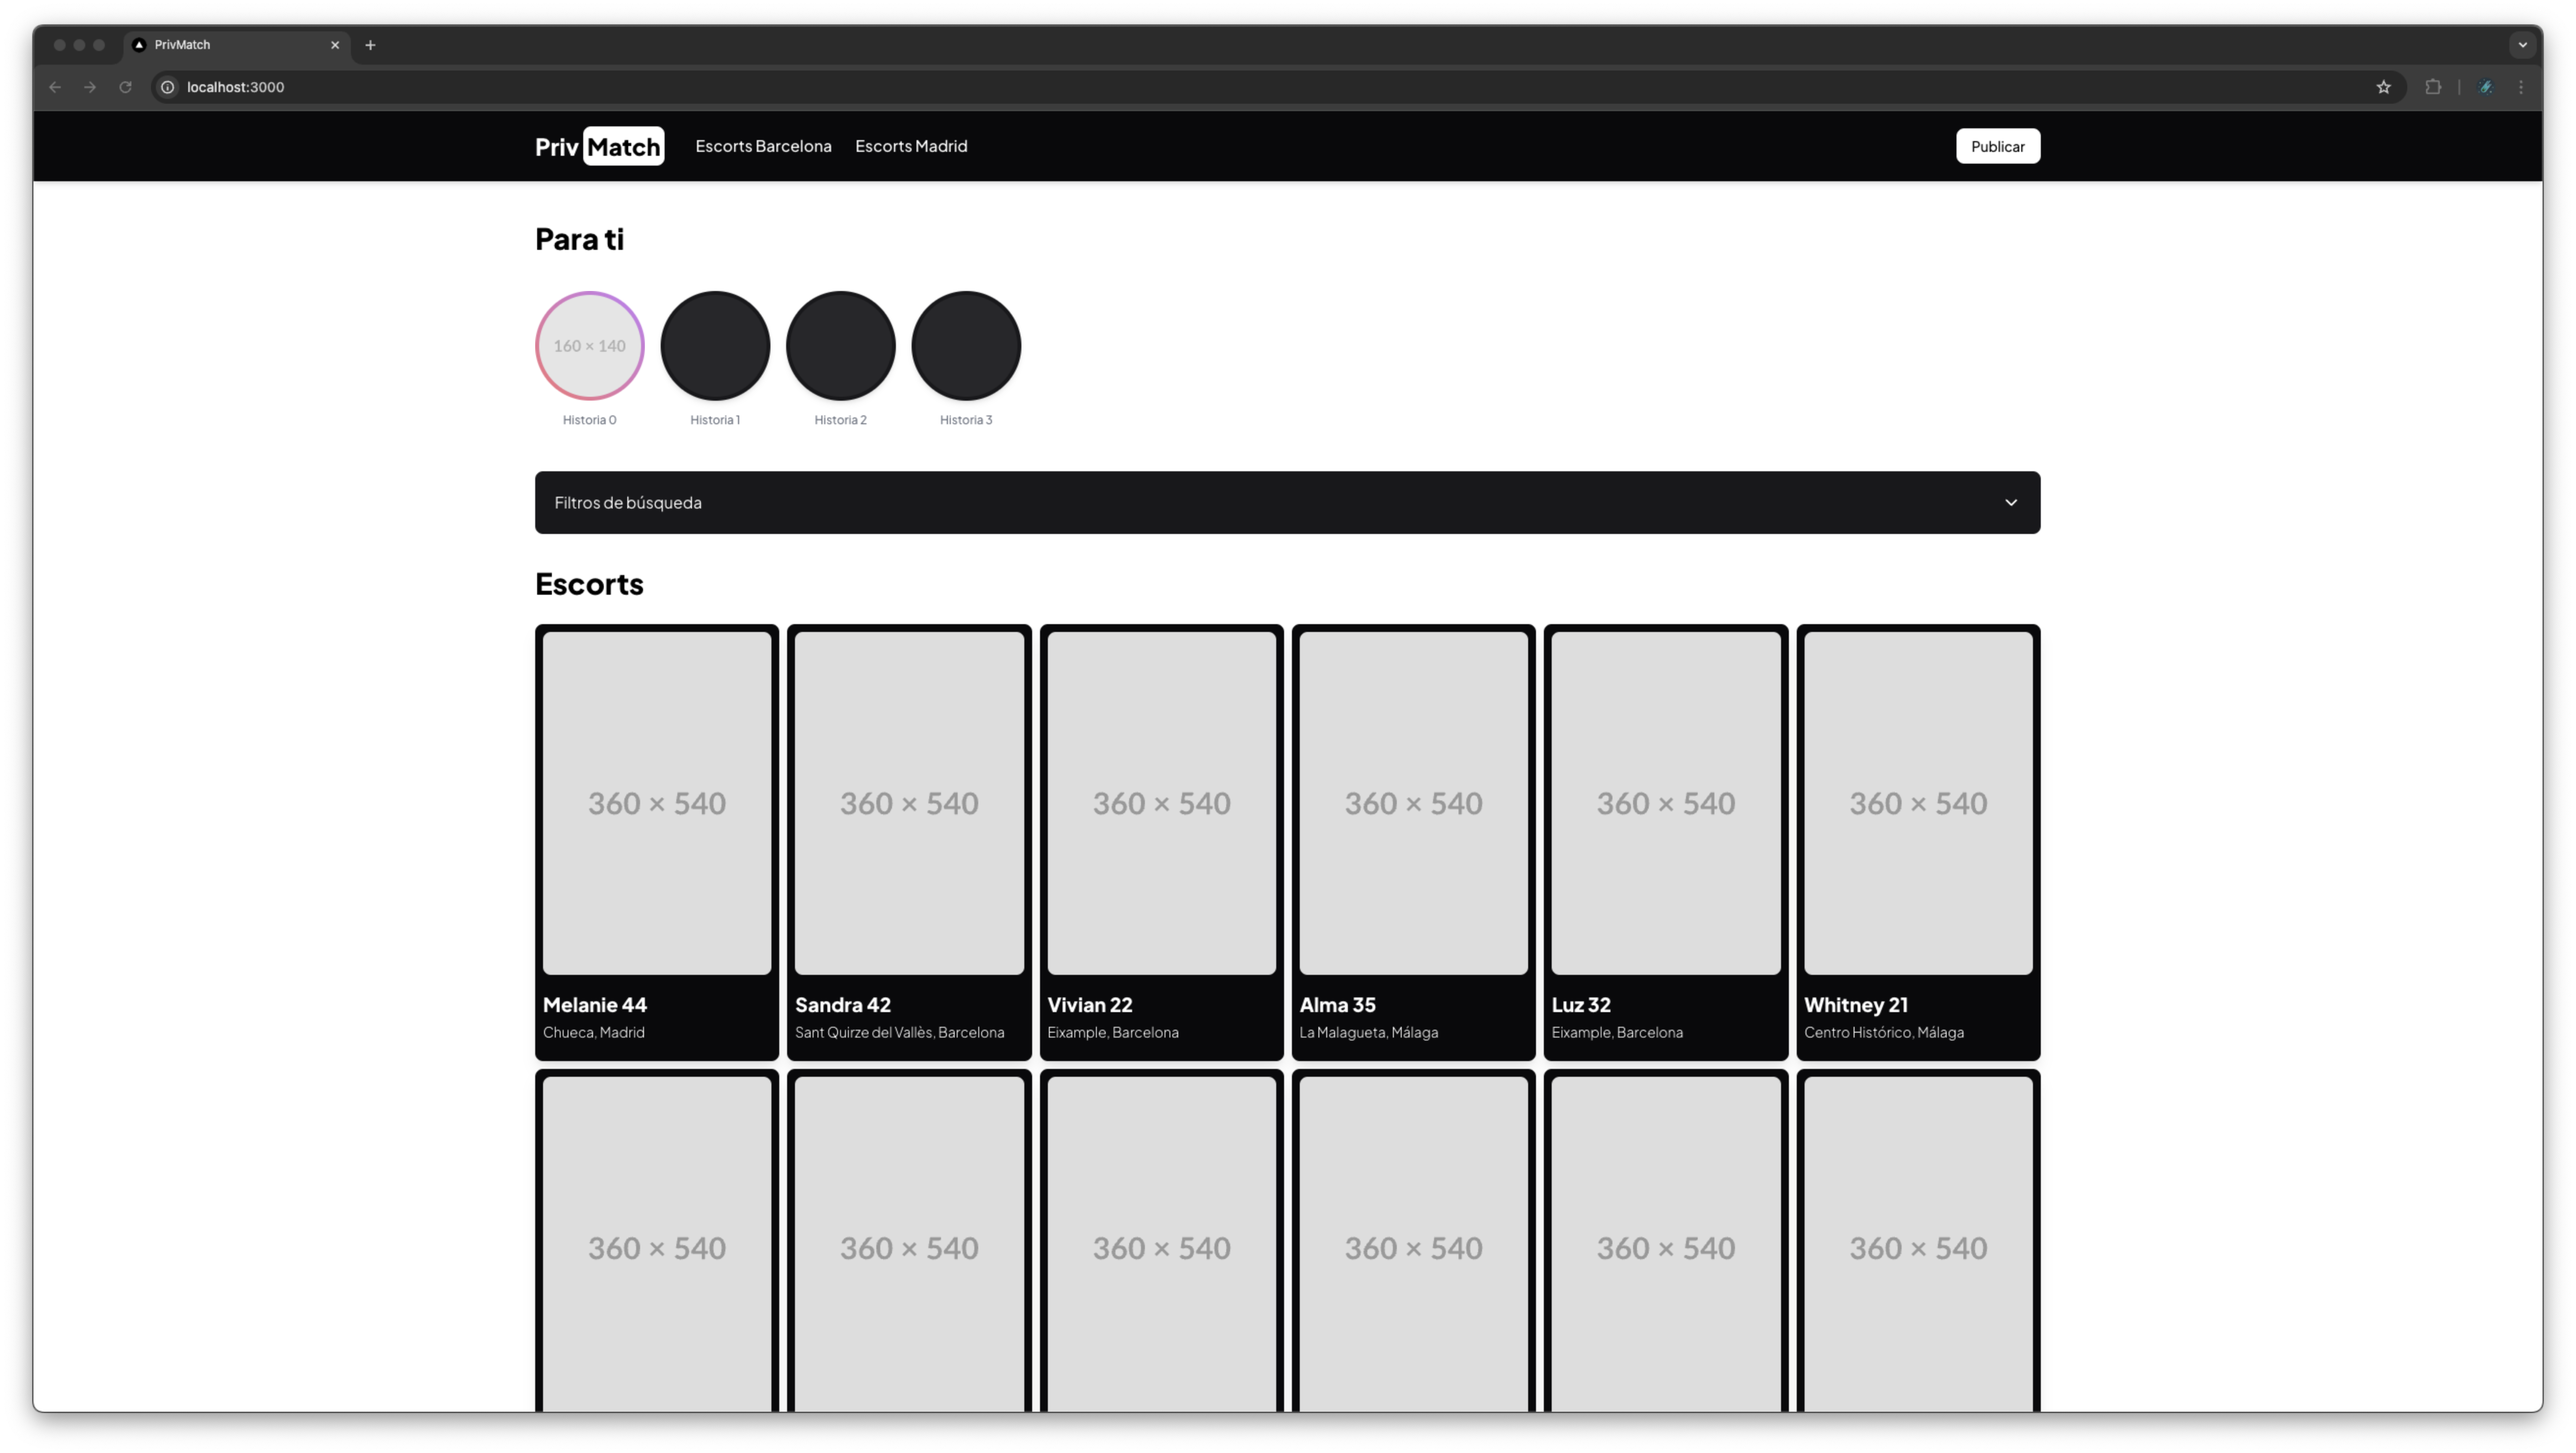
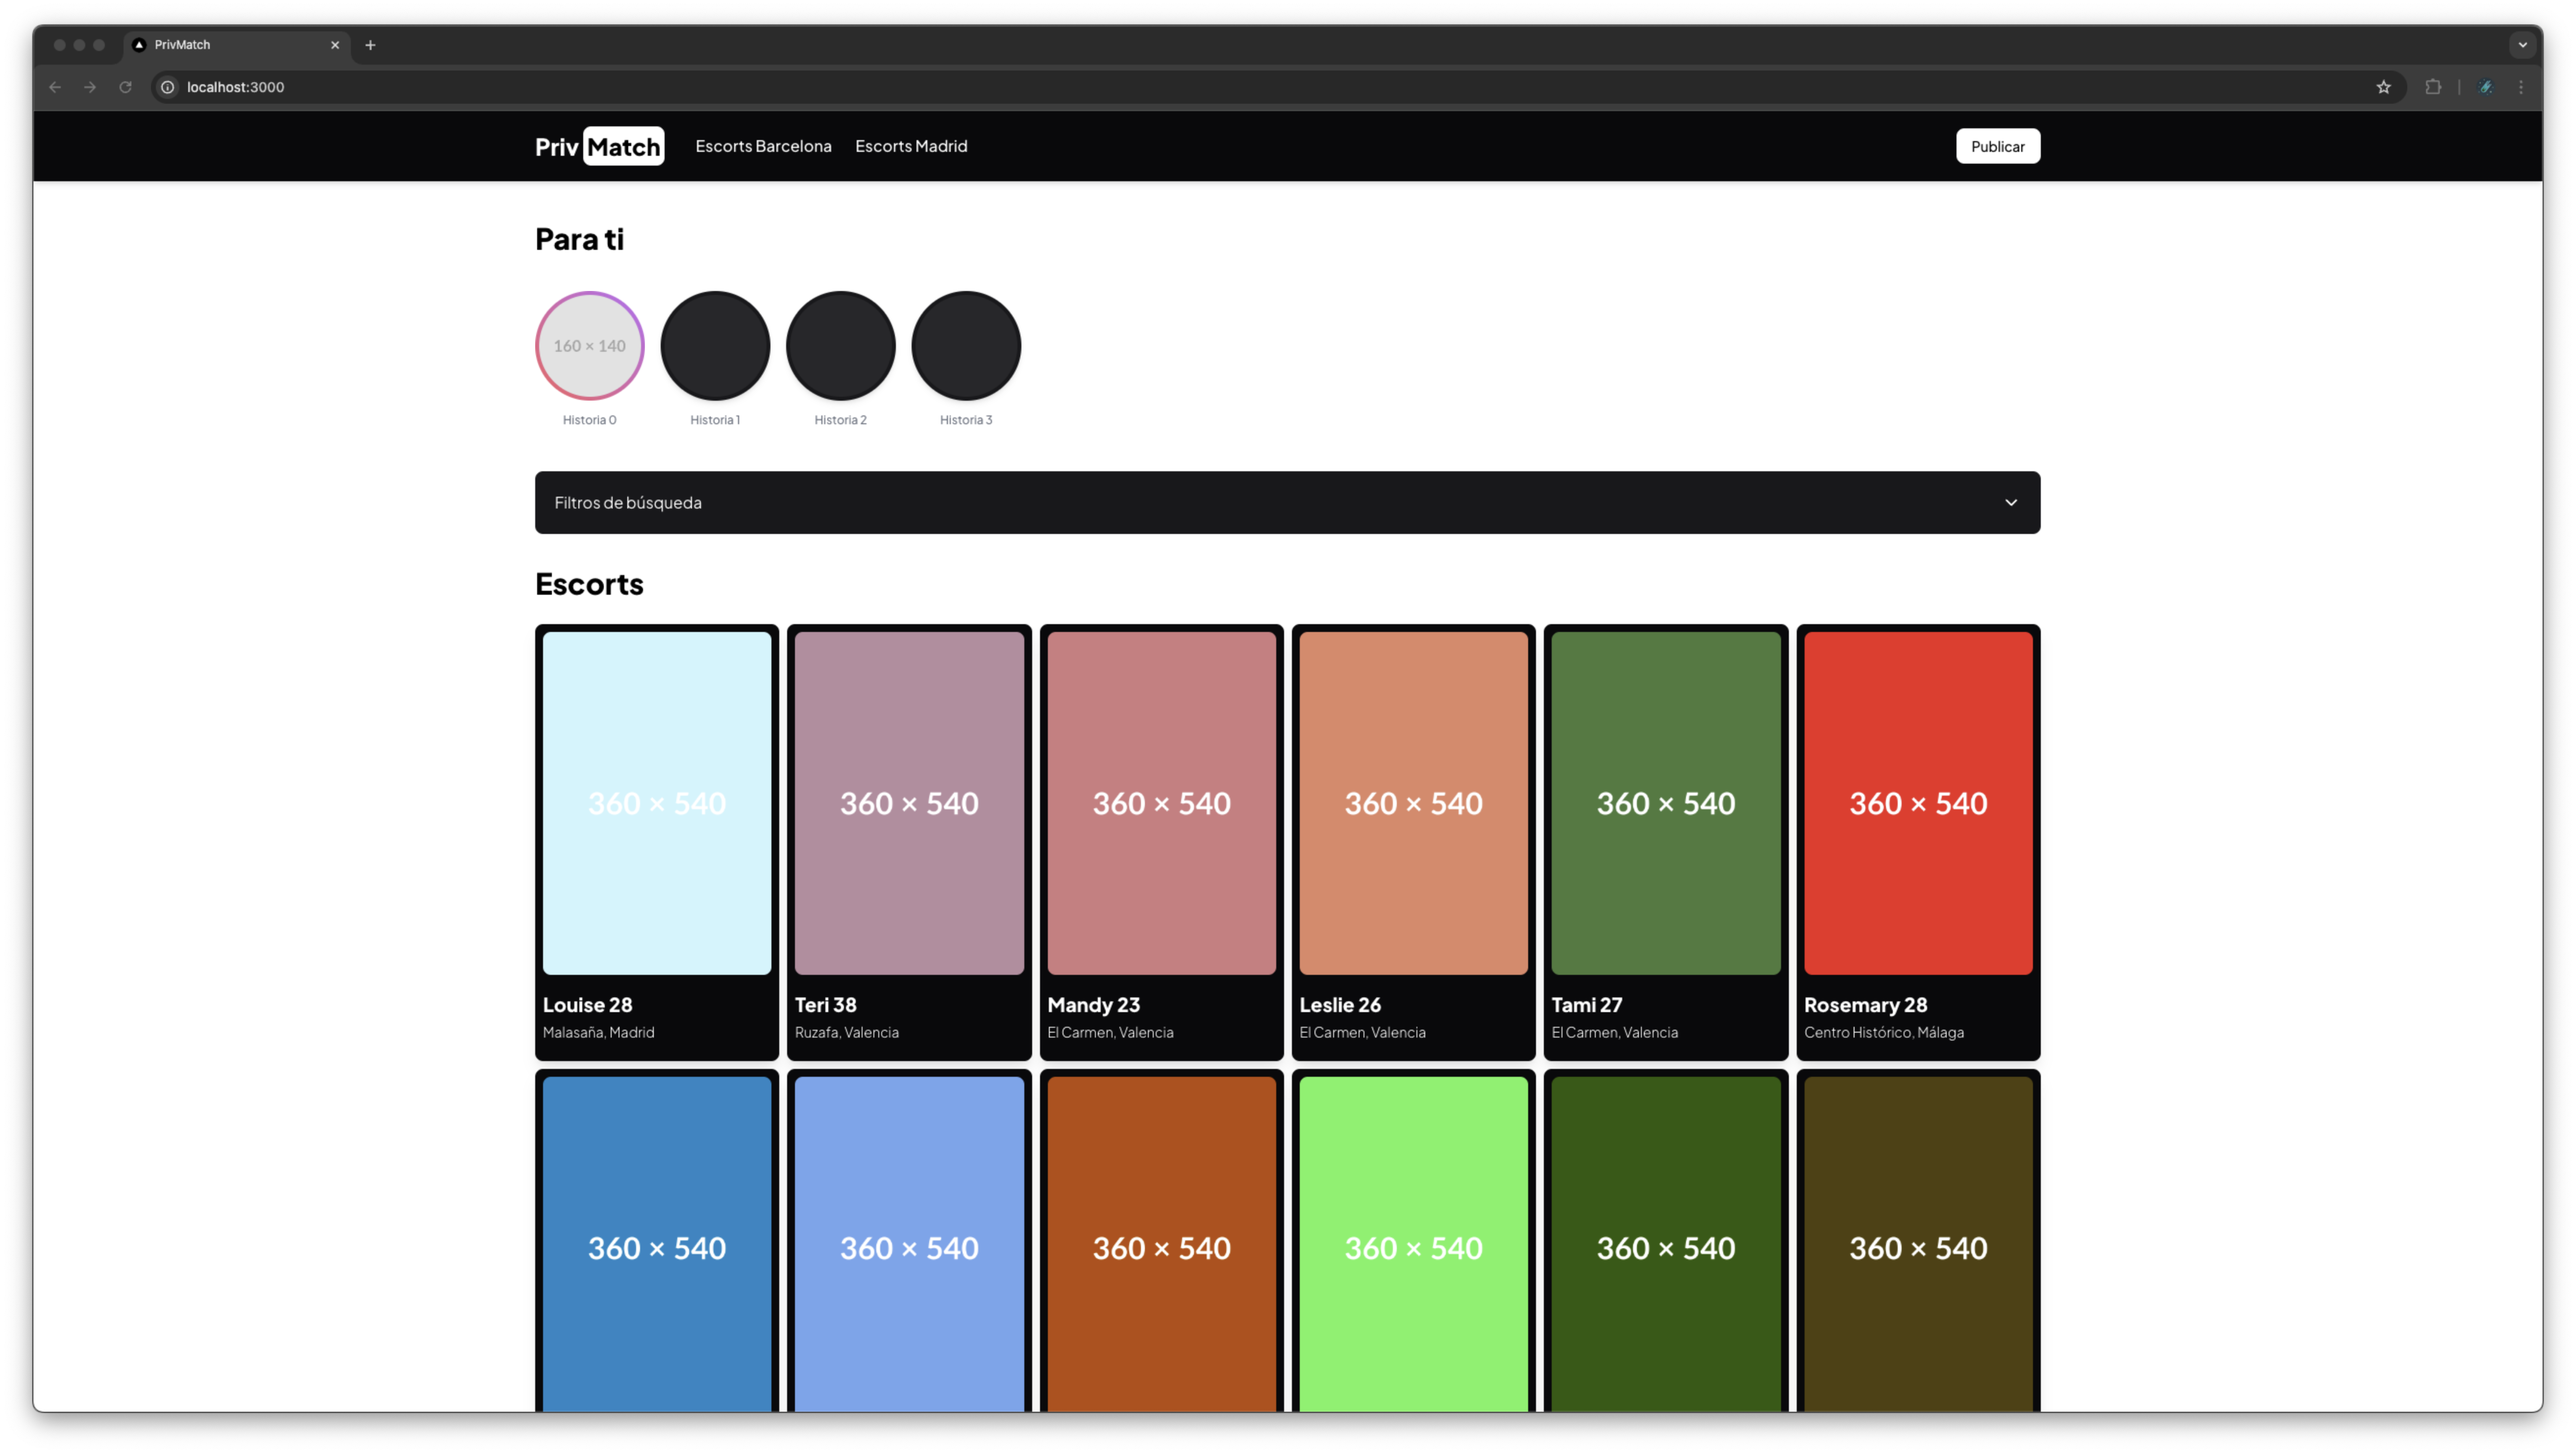
Add girl profile image viewer

Changed region(s): [[0.1872, 0.4343, 0.8113, 0.9926]]

diff --git a/app/girls/[girlId]/page.tsx b/app/girls/[girlId]/page.tsx
@@ -6,11 +6,14 @@ import Link from 'next/link';
 import { useEffect, useState } from 'react';
 import { GoogleMap, Marker, useJsApiLoader } from '@react-google-maps/api';
 import PriceCircles from '@/components/PriceCircles';
+import ImageViewer from '@/components/ImageViewer';
 
 const GirlProfilePage = ({ params }: { params: { girlId: string } }) => {
   const { girlId } = params;
   const [girl, setGirl] = useState<any>(null);
   const [loading, setLoading] = useState(true);
+  const [isImageViewerOpen, setIsImageViewerOpen] = useState(false);
+  const [currentImageIndex, setCurrentImageIndex] = useState(0);
 
   const { isLoaded } = useJsApiLoader({
     googleMapsApiKey: process.env.GOOGLE_MAPS_API_KEY,
@@ -30,9 +33,16 @@ const GirlProfilePage = ({ params }: { params: { girlId: string } }) => {
         setTimeout(() => setLoading(false), 500);
       }
     };
-
     fetchGirlProfile();
-  }, [girlId]);
+    if (isImageViewerOpen) {
+      document.body.style.overflow = 'hidden';
+    } else {
+      document.body.style.overflow = '';
+    }
+    return () => {
+      document.body.style.overflow = '';
+    };
+  }, [girlId, isImageViewerOpen]);
 
   if (loading) {
     return (
@@ -60,12 +70,28 @@ const GirlProfilePage = ({ params }: { params: { girlId: string } }) => {
 
   if (!girl) return notFound();
 
+  const openImageViewer = (index: number) => {
+    setCurrentImageIndex(index);
+    setIsImageViewerOpen(true);
+  };
+
+  const closeImageViewer = () => setIsImageViewerOpen(false);
+
+  const nextImage = () => {
+    setCurrentImageIndex(prevIndex => (prevIndex + 1) % girl.images.length);
+  };
+
+  const prevImage = () => {
+    setCurrentImageIndex(prevIndex => (prevIndex - 1 + girl.images.length) % girl.images.length);
+  };
+
   const center = girl.location
     ? { lat: girl.location.latitude, lng: girl.location.longitude }
     : { lat: 40.416775, lng: -3.70379 };
 
   return (
     <div className="container mx-auto mt-10 px-4 sm:px-0">
+      {/* Detalles del perfil */}
       <div className="mb-6 flex items-center justify-between">
         <h2 className="mb-2 text-3xl font-extrabold text-black">{girl.name}</h2>
         <div className="flex space-x-4">
@@ -89,6 +115,7 @@ const GirlProfilePage = ({ params }: { params: { girlId: string } }) => {
       </div>
 
       <div className="mb-10 flex flex-col gap-6 lg:flex-row">
+        {/* Información detallada */}
         <div className="rounded-lg bg-zinc-950 p-4 shadow-lg lg:w-1/3">
           <h2 className="mb-3 text-2xl text-white">Detalles:</h2>
           <p className="mb-2 text-lg font-light text-white">
@@ -154,25 +181,24 @@ const GirlProfilePage = ({ params }: { params: { girlId: string } }) => {
             )}
           </div>
         </div>
-
         <div className="rounded-lg bg-zinc-950 p-5 shadow-lg lg:w-2/3">
           <div className="mb-6 grid grid-cols-2 gap-2 md:grid-cols-3">
             {girl.images.length > 0 ? (
-              girl.images.map(image => (
+              girl.images.map((image, index) => (
                 <img
                   key={image.id}
                   src={image.url}
                   alt="Imagen de la escort"
-                  className={`h-full w-full rounded-lg object-cover shadow-md ${
+                  className={`h-full w-full cursor-pointer rounded-lg object-cover shadow-md ${
                     image.isPrimary ? 'border-4 border-yellow-500' : ''
                   }`}
+                  onClick={() => openImageViewer(index)}
                 />
               ))
             ) : (
               <p className="text-lg text-white">No hay imágenes disponibles.</p>
             )}
           </div>
-
           <h2 className="mb-3 text-2xl text-white">Ubicación:</h2>
           <div className="h-72 w-full">
             {isLoaded ? (
@@ -185,6 +211,16 @@ const GirlProfilePage = ({ params }: { params: { girlId: string } }) => {
           </div>
         </div>
       </div>
+
+      {isImageViewerOpen && (
+        <ImageViewer
+          images={girl.images}
+          currentIndex={currentImageIndex}
+          onClose={closeImageViewer}
+          onNext={nextImage}
+          onPrev={prevImage}
+        />
+      )}
     </div>
   );
 };

diff --git a/prisma/seed.js b/prisma/seed.js
@@ -86,7 +86,7 @@ async function main() {
     ),
   );
 
-  for (let i = 0; i < 20; i++) {
+  for (let i = 0; i < 38; i++) {
     const city = faker.helpers.arrayElement(cityData);
     const subarea = faker.helpers.arrayElement(subareasByCity[city.id]);
 
@@ -118,13 +118,22 @@ async function main() {
       },
     });
 
+    function getRandomColor() {
+      const letters = '0123456789ABCDEF';
+      let color = '';
+      for (let i = 0; i < 6; i++) {
+        color += letters[Math.floor(Math.random() * 16)];
+      }
+      return color;
+    }
+
     await db.image.createMany({
       data: [
-        { url: 'https://placehold.co/360x540', girlId: girl.id, isPrimary: true },
-        { url: 'https://placehold.co/360x540', girlId: girl.id, isPrimary: false },
-        { url: 'https://placehold.co/360x540', girlId: girl.id, isPrimary: false },
-        { url: 'https://placehold.co/360x540', girlId: girl.id, isPrimary: false },
-        { url: 'https://placehold.co/360x540', girlId: girl.id, isPrimary: false },
+        { url: `https://placehold.co/360x540/${getRandomColor()}/FFFFFF/png`, girlId: girl.id, isPrimary: true },
+        { url: `https://placehold.co/360x540/${getRandomColor()}/FFFFFF/png`, girlId: girl.id, isPrimary: false },
+        { url: `https://placehold.co/360x540/${getRandomColor()}/FFFFFF/png`, girlId: girl.id, isPrimary: false },
+        { url: `https://placehold.co/360x540/${getRandomColor()}/FFFFFF/png`, girlId: girl.id, isPrimary: false },
+        { url: `https://placehold.co/360x540/${getRandomColor()}/FFFFFF/png`, girlId: girl.id, isPrimary: false },
       ],
     });
 

diff --git a/components/ImageViewer.tsx b/components/ImageViewer.tsx
@@ -1,0 +1,33 @@
+import { FaChevronLeft, FaChevronRight, FaTimes } from 'react-icons/fa';
+
+interface ImageViewerProps {
+  images: { url: string }[];
+  currentIndex: number;
+  onClose: () => void;
+  onNext: () => void;
+  onPrev: () => void;
+}
+
+const ImageViewer = ({ images, currentIndex, onClose, onNext, onPrev }: ImageViewerProps) => {
+  return (
+    <div className="fixed inset-0 z-50 flex items-center justify-center bg-black bg-opacity-80">
+      <button onClick={onClose} className="absolute right-5 top-5 text-3xl text-white">
+        <FaTimes />
+      </button>
+
+      <div className="flex items-center">
+        <button onClick={onPrev} className="mr-5 text-3xl text-white">
+          <FaChevronLeft />
+        </button>
+
+        <img src={images[currentIndex].url} alt="Imagen ampliada" className="max-h-full max-w-full rounded-lg" />
+
+        <button onClick={onNext} className="ml-5 text-3xl text-white">
+          <FaChevronRight />
+        </button>
+      </div>
+    </div>
+  );
+};
+
+export default ImageViewer;

diff --git a/README.md b/README.md
@@ -15,3 +15,4 @@
 - **Girl Profile**: Proporciona detalles completos sobre cada acompañante, incluyendo fotografías, descripciones y servicios disponibles.
 
 ![Girl Profile](./screenshots/3.png)
+![Girl Image Viewer](./screenshots/4.png)
